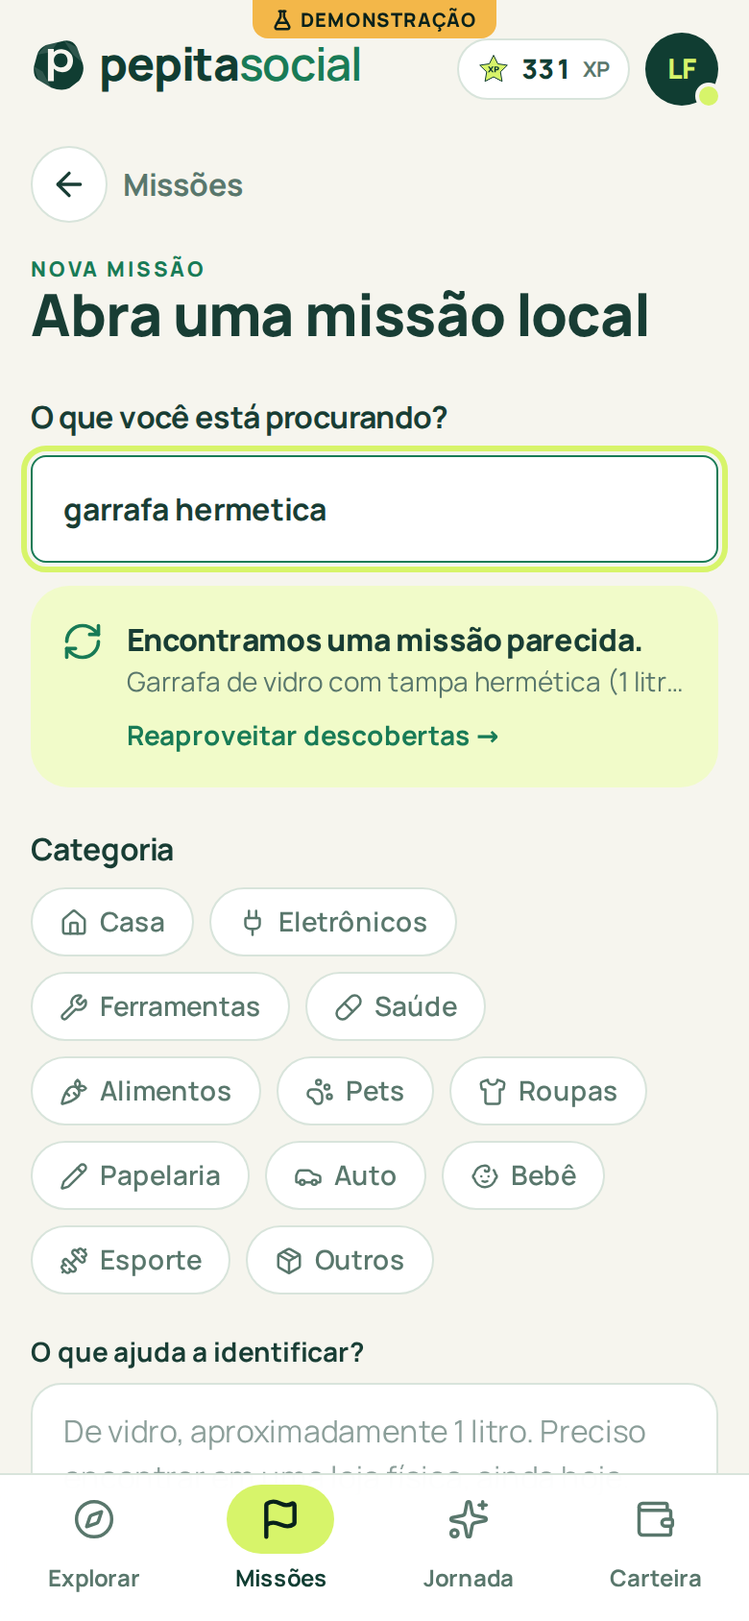
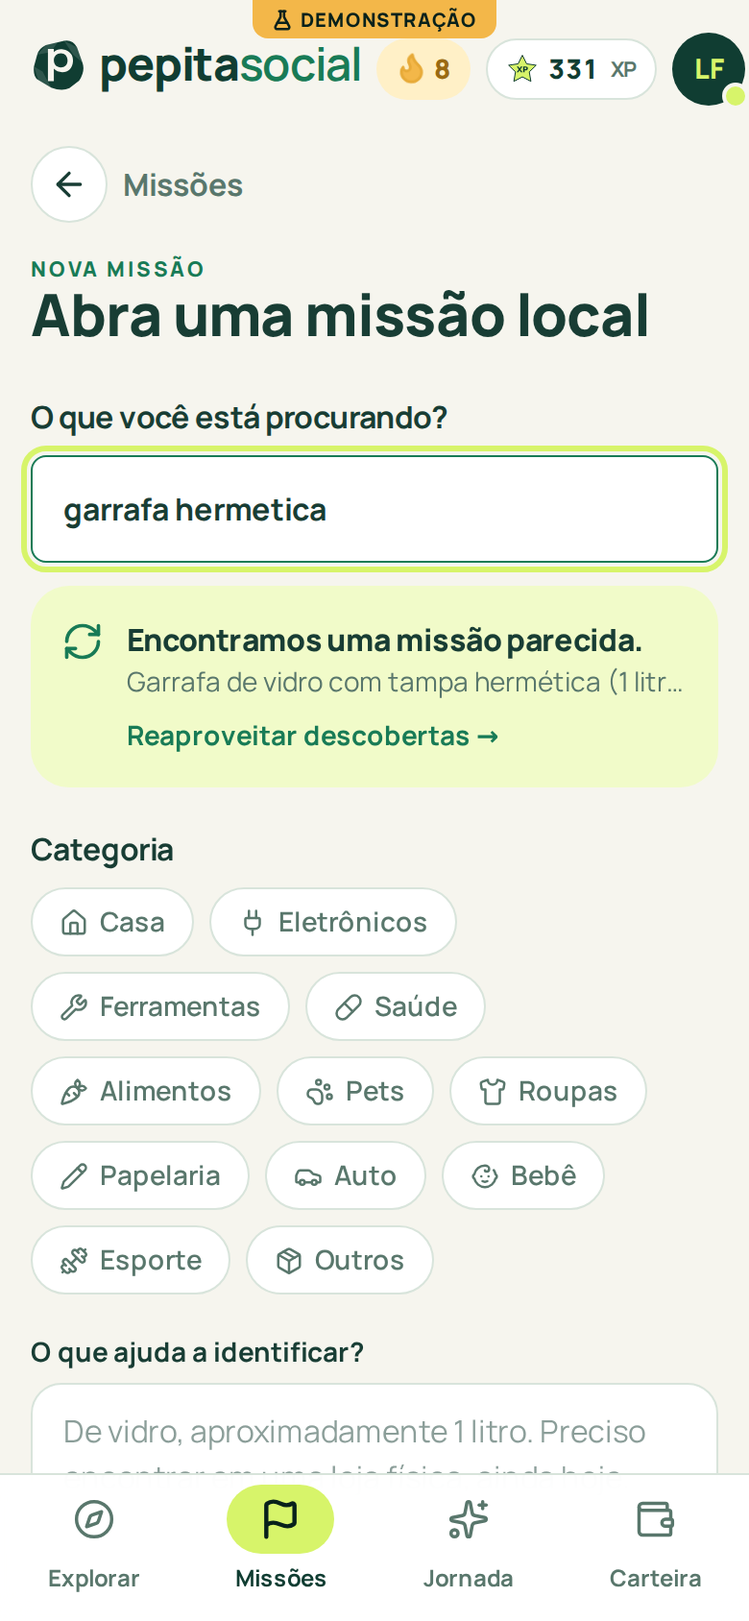
Gamificação no estilo Duolingo: botões táteis, sequência, trilha de patentes, metas do dia e cerimônias
- Botões principais (Floresta, Lima, Ouro) ganham borda inferior de 4 px
  que some quando afundam ao toque, com vibração curta onde o navegador
  permite; os demais seguem planos.
- Cabeçalho mostra a sequência de dias com a chama acesa e o chip de XP
  pula e solta um "+N" quando o XP sobe. Ícone da aba ativa dá um salto.
- Jornada: a árvore de patentes vira uma trilha sinuosa com nós
  alternando os lados, linha tracejada, trecho percorrido desenhado em
  animação, nó atual pulsando com o Pepi ao lado; "Metas de hoje" calcula
  do extrato do dia (evidência, confirmação, 20 XP) com barras que enchem.
- Cerimônia de conquista nova: insígnia cai na tela com o Pepi
  comemorando e confete, uma vez por conquista; conquistas movidas para
  um arquivo comum (lib/badges.ts).
- Tela de conquista da evidência termina com três cartões que viram um a
  um (XP ganho, sequência, evidência), como o fim de lição.
- Smoke fecha as cerimônias que a simulação de 7 dias abre e captura a
  nova conquista.

Claude-Session: https://claude.ai/code/session_012eeJ7ie2pgoS5uJkinvQji

Changed region(s): [[0.4923, 0.0, 1.0, 0.0924]]

diff --git a/web/src/pages/Jornada.tsx b/web/src/pages/Jornada.tsx
@@ -2,25 +2,15 @@ import { useState } from 'react';
 import { Link } from 'react-router';
 import { useQuery } from '@tanstack/react-query';
 import { motion } from 'motion/react';
-import { Camera, Disc, Eye, Flag, Flame, Gem, Hand, Lock, Map, Share2, Sparkles, Trophy, ArrowRight } from 'lucide-react';
+import { BadgeCheck, Camera, Check, Flame, Lock, Share2, Sparkles } from 'lucide-react';
+import { BADGES } from '@/lib/badges';
+import type { LedgerItem } from '@/lib/types';
 import { api } from '@/lib/api';
 import { useMe, useShare, useToast } from '@/lib/hooks';
 import { LEVELS } from '@/lib/economy';
 import type { RankRow } from '@/lib/types';
 import { Avatar, Button, Card, EmptyState, Headline, Segmented, Spinner } from '@/components/ui';
 import { Pepi, RankBadge, XpStar } from '@/components/brand';
-
-const BADGES = [
-  { slug: 'fundador', name: 'Fundador', description: 'Entrou no piloto de Ariquemes.', icon: Flag },
-  { slug: 'primeiro_achado', name: 'Primeira descoberta', description: 'Teve a primeira evidência aceita.', icon: Gem },
-  { slug: 'olho_de_lince', name: 'Olho de lince', description: 'Cinco primeiras descobertas em lugares diferentes.', icon: Eye },
-  { slug: 'bateia', name: 'Bateia', description: 'Confirmou dez descobertas indo até o lugar.', icon: Disc },
-  { slug: 'bom_de_prova', name: 'Boa evidência', description: 'Dez evidências fortes.', icon: Camera },
-  { slug: 'maratonista', name: 'Maratonista', description: 'Sete dias seguidos ajudando.', icon: Flame },
-  { slug: 'mao_aberta', name: 'Mão aberta', description: 'Agradeceu dez vezes com pepitas.', icon: Hand },
-  { slug: 'cartografo', name: 'Cartógrafo', description: 'Cadastrou cinco lugares novos.', icon: Map },
-  { slug: 'garimpeiro_semana', name: 'Destaque da semana', description: 'Topo do ranking semanal.', icon: Trophy },
-];
 
 /** Jornada: patente, árvore de níveis, conquistas e quem mais ajudou a cidade. */
 export function Jornada() {
@@ -29,6 +19,7 @@ export function Jornada() {
   const toast = useToast();
   const [period, setPeriod] = useState<'semana' | 'geral'>('semana');
   const ranking = useQuery({ queryKey: ['ranking', period], queryFn: () => api.ranking(period) });
+  const ledger = useQuery({ queryKey: ['ledger'], queryFn: api.ledger, enabled: !!me });
 
   if (isPending) return <div className="grid place-items-center py-24"><Spinner /></div>;
   if (!me) {
@@ -99,33 +90,11 @@ export function Jornada() {
           <h2 className="font-display font-extrabold text-xl">Sua árvore de conquistas</h2>
           <span className="text-sm text-ink-2">{LEVELS.length} níveis</span>
         </div>
-        <ol className="mt-3 relative">
-          <span className="absolute left-[2.1rem] top-6 bottom-6 w-px bg-line" aria-hidden="true" />
-          {LEVELS.map((l, i) => {
-            const state = l.level === level.level ? 'atual' : l.level < level.level ? 'feito' : 'futuro';
-            return (
-              <motion.li key={l.level} initial={{ opacity: 0, x: -10 }} animate={{ opacity: 1, x: 0 }} transition={{ delay: 0.15 + i * 0.08 }}
-                className={`relative flex items-center gap-3 px-2 py-2.5 rounded-card ${state === 'atual' ? 'bg-lima-100 dark:bg-floresta-600' : ''}`}>
-                <span className={`relative h-[3.3rem] w-[3.3rem] shrink-0 grid place-items-center rounded-2xl ${state === 'atual' ? 'bg-lima-400' : state === 'feito' ? 'bg-esmeralda-100' : 'bg-surface border border-line'}`}>
-                  <RankBadge level={l.level} size={30} dim={state === 'futuro'} />
-                </span>
-                <span className="flex-1 min-w-0">
-                  <span className={`block font-display font-extrabold text-[17px] leading-tight ${state === 'futuro' ? 'text-ink-2' : ''}`}>{l.name}</span>
-                  <span className="block text-sm text-ink-2 leading-snug">{l.motto}</span>
-                </span>
-                <span className={`text-sm font-bold tabular shrink-0 ${state === 'atual' ? 'text-green-ink' : 'text-ink-2'}`}>{l.xp.toLocaleString('pt-BR')} XP{state === 'atual' ? ' · atual' : ''}</span>
-              </motion.li>
-            );
-          })}
-        </ol>
+        <LevelPath current={level.level} />
         <p className="text-sm text-ink-2 mt-2 px-2">{level.perk}</p>
       </section>
 
-      <Link to="/missoes" className="mt-5 flex items-center gap-3 rounded-card bg-surface border border-line px-4 py-3.5">
-        <span className="h-10 w-10 grid place-items-center rounded-full bg-ouro-100 text-gold-ink"><Trophy size={20} /></span>
-        <span className="flex-1 min-w-0"><span className="block font-display font-extrabold">Missão da semana</span><span className="block text-sm text-ink-2">Reconfirme uma pista antiga.</span></span>
-        <span className="inline-flex items-center gap-1 font-bold text-green-ink text-sm">+15 XP <ArrowRight size={16} /></span>
-      </Link>
+      <DailyGoals items={ledger.data?.items ?? []} />
 
       <section className="mt-7">
         <div className="flex items-baseline justify-between">
@@ -193,5 +162,81 @@ function Row({ p, me }: { p: RankRow; me: boolean }) {
       </span>
       <span className="font-display font-extrabold tabular">{p.pontos.toLocaleString('pt-BR')}</span>
     </li>
+  );
+}
+
+/** Trilha de patentes no estilo caminho do Duolingo: nós alternando os lados, ligados por uma linha tracejada; o atual pulsa e tem o Pepi ao lado. */
+function LevelPath({ current }: { current: number }) {
+  const xs = [22, 64, 32, 70, 46];
+  const step = 112; const pad = 64;
+  const nodes = LEVELS.map((l, i) => ({ l, x: xs[i] ?? 50, y: pad + i * step }));
+  const h = pad * 2 + (LEVELS.length - 1) * step;
+  const d = nodes.map((n, i) => (i === 0 ? `M ${n.x} ${n.y}` : `C ${nodes[i - 1]!.x} ${(nodes[i - 1]!.y + n.y) / 2}, ${n.x} ${(nodes[i - 1]!.y + n.y) / 2}, ${n.x} ${n.y}`)).join(' ');
+  const doneUntil = nodes.findIndex((n) => n.l.level === current);
+  const dDone = nodes.slice(0, doneUntil + 1).map((n, i) => (i === 0 ? `M ${n.x} ${n.y}` : `C ${nodes[i - 1]!.x} ${(nodes[i - 1]!.y + n.y) / 2}, ${n.x} ${(nodes[i - 1]!.y + n.y) / 2}, ${n.x} ${n.y}`)).join(' ');
+  return (
+    <div className="relative mt-1" style={{ height: h }}>
+      <svg className="absolute inset-0 w-full h-full" viewBox={`0 0 100 ${h}`} preserveAspectRatio="none" aria-hidden="true">
+        <path d={d} fill="none" stroke="var(--line)" strokeWidth="6" strokeLinecap="round" strokeDasharray="0.1 12" vectorEffect="non-scaling-stroke" />
+        <motion.path d={dDone} fill="none" stroke="var(--accent)" strokeWidth="6" strokeLinecap="round" vectorEffect="non-scaling-stroke" initial={{ pathLength: 0 }} animate={{ pathLength: 1 }} transition={{ duration: 1.1, ease: 'easeOut', delay: 0.2 }} />
+      </svg>
+      {nodes.map((n, i) => {
+        const state = n.l.level === current ? 'atual' : n.l.level < current ? 'feito' : 'futuro';
+        const left = n.x < 50;
+        return (
+          <motion.div key={n.l.level} initial={{ opacity: 0, scale: 0.6 }} animate={{ opacity: 1, scale: 1 }} transition={{ delay: 0.15 + i * 0.1, type: 'spring', stiffness: 320, damping: 20 }}
+            className="absolute -translate-x-1/2 -translate-y-1/2 flex flex-col items-center" style={{ left: `${n.x}%`, top: n.y }}>
+            <div className="relative">
+              {state === 'atual' && <span className="node-ring absolute inset-0 rounded-full bg-lima-400/50" aria-hidden="true" />}
+              <span className={`relative h-[4.25rem] w-[4.25rem] rounded-full grid place-items-center border-4 border-bg ${state === 'atual' ? 'bg-lima-400 shadow-lima' : state === 'feito' ? 'bg-brand text-on-brand' : 'bg-surface-2 text-ink-2'}`}>
+                {state === 'feito' ? <Check size={28} strokeWidth={3} /> : state === 'futuro' ? <Lock size={22} /> : <RankBadge level={n.l.level} size={34} />}
+              </span>
+              {state === 'atual' && <Pepi pose="explorador" size={60} className={`absolute -top-3 ${left ? 'left-[3.9rem]' : 'right-[3.9rem]'}`} />}
+            </div>
+            <span className={`mt-1.5 text-center leading-tight ${state === 'futuro' ? 'text-ink-2' : ''}`}>
+              <span className="block font-display font-extrabold text-sm whitespace-nowrap">{n.l.name}</span>
+              <span className="block text-xs text-ink-2 tabular">{n.l.xp.toLocaleString('pt-BR')} XP</span>
+            </span>
+          </motion.div>
+        );
+      })}
+    </div>
+  );
+}
+
+/** Metas de hoje, calculadas do extrato do dia (renovam à meia-noite). Sem recompensa inventada: o XP vem das próprias ações. */
+function DailyGoals({ items }: { items: LedgerItem[] }) {
+  const today = new Date().toDateString();
+  const todays = items.filter((l) => l.state !== 'estornado' && new Date(l.createdAt).toDateString() === today);
+  const count = (kind: string) => todays.filter((l) => l.kind === kind).length;
+  const xp = todays.reduce((s, l) => s + Math.max(0, l.xp), 0);
+  const goals = [
+    { label: 'Envie uma evidência', done: count('resposta_com_evidencia'), target: 1, icon: Camera },
+    { label: 'Confirme uma descoberta', done: count('confirmar') + count('confirmacao_validada'), target: 1, icon: BadgeCheck },
+    { label: 'Ganhe 20 XP hoje', done: Math.min(xp, 20), target: 20, icon: Sparkles },
+  ];
+  const all = goals.every((g) => g.done >= g.target);
+  return (
+    <section className="mt-7">
+      <div className="flex items-baseline justify-between">
+        <h2 className="font-display font-extrabold text-xl">Metas de hoje</h2>
+        <span className="text-sm text-ink-2">{all ? 'Tudo feito!' : 'renovam à meia-noite'}</span>
+      </div>
+      <ul className="mt-3 rounded-card bg-surface border border-line divide-y divide-line">
+        {goals.map((g, i) => {
+          const ok = g.done >= g.target;
+          return (
+            <li key={g.label} className="flex items-center gap-3 px-4 py-3">
+              <motion.span initial={false} animate={ok ? { scale: [1, 1.2, 1] } : { scale: 1 }} className={`h-10 w-10 shrink-0 grid place-items-center rounded-full ${ok ? 'bg-lima-400 text-floresta-900' : 'bg-surface-2 text-accent'}`}>{ok ? <Check size={20} strokeWidth={3} /> : <g.icon size={18} />}</motion.span>
+              <span className="flex-1 min-w-0">
+                <span className={`block font-bold text-[15px] ${ok ? 'text-ink-2 line-through decoration-2' : ''}`}>{g.label}</span>
+                <span className="mt-1.5 block h-2 rounded-full bg-surface-2 overflow-hidden"><motion.span className={`block h-full rounded-full ${ok ? 'bg-lima-400' : 'bg-accent'}`} initial={{ width: 0 }} animate={{ width: `${Math.min(100, (g.done / g.target) * 100)}%` }} transition={{ duration: 0.8, delay: 0.2 + i * 0.1, ease: 'easeOut' }} /></span>
+              </span>
+              <span className="text-sm font-bold tabular text-ink-2 shrink-0">{Math.min(g.done, g.target)}/{g.target}</span>
+            </li>
+          );
+        })}
+      </ul>
+    </section>
   );
 }

diff --git a/web/src/components/ui.tsx b/web/src/components/ui.tsx
@@ -1,7 +1,8 @@
 import { useEffect, useRef, useState, type ButtonHTMLAttributes, type InputHTMLAttributes, type ReactNode, type TextareaHTMLAttributes } from 'react';
 import { AnimatePresence, animate, motion, useReducedMotion } from 'motion/react';
-import { ArrowRight, X } from 'lucide-react';
+import { ArrowRight, Flame, X } from 'lucide-react';
 import { NuggetIcon, StateArt, Symbol, XpStar } from './brand';
+import { haptic } from '@/lib/reward';
 
 /** Compatibilidade: a pepita do pacote substitui o ícone desenhado à mão. */
 export function PepitaIcon({ size = 18, className = '' }: { size?: number; className?: string }) { return <NuggetIcon size={size} className={className} />; }
@@ -9,20 +10,22 @@ export function Logo({ size = 28 }: { size?: number }) { return <Symbol size={si
 
 type Variant = 'primary' | 'secondary' | 'gold' | 'lime' | 'ghost' | 'soft' | 'danger';
 const variants: Record<Variant, string> = {
-  primary: 'bg-brand text-on-brand hover:brightness-95 shadow-float',
+  primary: 'btn-3d bg-brand text-on-brand [--edge:#061A15] dark:[--edge:#A9C73A]',
   secondary: 'bg-surface text-brand-ink border border-line hover:bg-surface-2',
-  gold: 'bg-ouro-400 text-floresta-900 hover:bg-ouro-500 shadow-ouro',
-  lime: 'bg-lima-400 text-floresta-900 hover:bg-lima-300 shadow-lima',
+  gold: 'btn-3d bg-ouro-400 text-floresta-900 [--edge:#C98E1F]',
+  lime: 'btn-3d bg-lima-400 text-floresta-900 [--edge:#A9C73A]',
   ghost: 'bg-transparent text-ink hover:bg-surface-2 border border-line',
   soft: 'bg-accent-soft text-ink hover:bg-floresta-100',
   danger: 'bg-brasa-100 text-brasa-700 hover:bg-brasa-500 hover:text-white',
 };
-export function Button({ variant = 'primary', size = 'md', loading, arrow, className = '', children, disabled, ...rest }:
+export function Button({ variant = 'primary', size = 'md', loading, arrow, className = '', children, disabled, onClick, ...rest }:
   ButtonHTMLAttributes<HTMLButtonElement> & { variant?: Variant; size?: 'sm' | 'md' | 'lg'; loading?: boolean; arrow?: boolean }) {
+  const tactile = variant === 'primary' || variant === 'lime' || variant === 'gold';
   const sz = size === 'sm' ? 'h-9 px-3.5 text-sm' : size === 'lg' ? 'h-14 px-6 text-base' : 'h-12 px-5 text-[15px]';
   return (
-    <motion.button whileTap={{ scale: 0.97 }} transition={{ type: 'spring', stiffness: 500, damping: 30 }}
-      className={`press inline-flex items-center justify-center gap-2 rounded-full font-display font-bold tracking-tight disabled:opacity-40 disabled:saturate-50 disabled:pointer-events-none ${sz} ${variants[variant]} ${className}`}
+    <motion.button whileTap={tactile ? undefined : { scale: 0.97 }} transition={{ type: 'spring', stiffness: 500, damping: 30 }}
+      onClick={(e) => { if (tactile) haptic(); onClick?.(e); }}
+      className={`${tactile ? '' : 'press'} inline-flex items-center justify-center gap-2 rounded-full font-display font-bold tracking-tight disabled:opacity-40 disabled:saturate-50 disabled:pointer-events-none ${sz} ${variants[variant]} ${className}`}
       disabled={loading || disabled} {...(rest as object)}>
       {loading ? <Spinner size={18} /> : <>{children}{arrow && <ArrowRight size={18} strokeWidth={2.5} className="ml-auto" />}</>}
     </motion.button>
@@ -161,10 +164,32 @@ export function PepitaPill({ value, pending, size = 'md' }: { value: number; pen
   );
 }
 
+/** Chip de XP: quando o valor sobe, o chip dá um pulo e um "+N" flutua para cima (o ganho acontece onde o número mora). */
 export function XpChip({ xp, size = 'md' }: { xp: number; size?: 'sm' | 'md' }) {
+  const prev = useRef(xp);
+  const [gain, setGain] = useState<{ n: number; id: number } | null>(null);
+  useEffect(() => {
+    const d = xp - prev.current; prev.current = xp;
+    if (d > 0) { setGain({ n: d, id: Date.now() }); const t = setTimeout(() => setGain(null), 1400); return () => clearTimeout(t); }
+  }, [xp]);
   return (
-    <span className={`inline-flex items-center gap-1.5 rounded-full bg-surface border border-line font-display font-extrabold text-brand-ink ${size === 'sm' ? 'h-8 px-2.5 text-sm' : 'h-10 px-3.5 text-base'}`}>
+    <motion.span key={gain?.id ?? 'idle'} animate={gain ? { scale: [1, 1.14, 1] } : { scale: 1 }} transition={{ duration: 0.45, ease: 'easeOut' }}
+      className={`relative inline-flex items-center gap-1.5 rounded-full bg-surface border border-line font-display font-extrabold text-brand-ink ${size === 'sm' ? 'h-8 px-2.5 text-sm' : 'h-10 px-3.5 text-base'}`}>
       <XpStar size={size === 'sm' ? 16 : 20} /><AnimatedNumber value={xp} /><span className="text-[11px] font-bold text-ink-2">XP</span>
+      <AnimatePresence>
+        {gain && <motion.span initial={{ opacity: 0, y: 6 }} animate={{ opacity: 1, y: -22 }} exit={{ opacity: 0 }} transition={{ duration: 0.9, ease: 'easeOut' }}
+          className="absolute left-1/2 -translate-x-1/2 top-0 text-sm font-extrabold text-green-ink pointer-events-none">+{gain.n}</motion.span>}
+      </AnimatePresence>
+    </motion.span>
+  );
+}
+
+/** Sequência de dias com a chama do Duolingo: acesa quando há sequência, apagada quando não. */
+export function StreakChip({ days, size = 'md' }: { days: number; size?: 'sm' | 'md' }) {
+  const on = days > 0;
+  return (
+    <span className={`inline-flex items-center gap-1 rounded-full font-display font-extrabold tabular ${on ? 'bg-ouro-100 text-gold-ink' : 'bg-surface border border-line text-ink-2'} ${size === 'sm' ? 'h-8 px-2.5 text-sm' : 'h-10 px-3.5 text-base'}`} title={on ? `${days} dias seguidos ajudando` : 'Ajude hoje para começar uma sequência'}>
+      <Flame size={size === 'sm' ? 16 : 18} className={on ? 'flame fill-ouro-400 text-ouro-500' : ''} />{days}
     </span>
   );
 }

diff --git a/web/src/components/Shell.tsx b/web/src/components/Shell.tsx
@@ -4,7 +4,9 @@ import { useQueryClient } from '@tanstack/react-query';
 import { AnimatePresence, motion } from 'motion/react';
 import { Compass, Flag, FlaskConical, Sparkles, Wallet } from 'lucide-react';
 import { useMe, useToast } from '@/lib/hooks';
-import { Sheet, Button, Avatar, XpChip } from './ui';
+import { Sheet, Button, Avatar, XpChip, StreakChip } from './ui';
+import { badgeBySlug } from '@/lib/badges';
+import type { Badge } from '@/lib/types';
 import { Anim, Pepi, RankBadge, Wordmark } from './brand';
 import { celebrate } from '@/lib/reward';
 
@@ -35,6 +37,7 @@ export function Shell() {
       <Toasts />
       {import.meta.env.VITE_DEMO === '1' && <DemoBadge />}
       {me && <LevelUpWatcher xp={me.user.xp} level={me.level.level} name={me.level.name} perk={me.level.perk} userId={me.user.id} />}
+      {me && <BadgeWatcher badges={me.badges} userId={me.user.id} />}
     </div>
   );
 }
@@ -48,6 +51,7 @@ function TopBar() {
         <Link to="/" aria-label="Pepita Social, início" className="mr-auto"><Wordmark size={24} /></Link>
         {me ? (
           <>
+            <Link to="/jornada" aria-label="Sua sequência"><StreakChip days={me.user.streakDays} size="sm" /></Link>
             <Link to="/jornada" aria-label="Sua jornada"><XpChip xp={me.user.xp} size="sm" /></Link>
             <Link to="/carteira" aria-label="Sua carteira" className="relative">
               <Avatar name={me.user.name} url={me.user.avatarUrl} size={38} />
@@ -69,7 +73,9 @@ function Tab({ to, label, icon: Icon, end }: { to: string; label: string; icon: 
         <span className="flex flex-col items-center gap-1 text-[12px] font-bold">
           <span className="relative h-9 w-14 grid place-items-center">
             {isActive && <motion.span layoutId="tab-bg" className="absolute inset-0 rounded-full bg-lima-400" transition={{ type: 'spring', stiffness: 420, damping: 32 }} />}
-            <Icon size={22} className={`relative ${isActive ? 'text-floresta-900' : ''}`} strokeWidth={isActive ? 2.4 : 1.9} />
+            <motion.span key={String(isActive)} animate={isActive ? { scale: [1, 1.28, 1], rotate: [0, -8, 0] } : { scale: 1 }} transition={{ duration: 0.38, ease: 'easeOut' }} className="relative grid place-items-center">
+              <Icon size={22} className={isActive ? 'text-floresta-900' : ''} strokeWidth={isActive ? 2.4 : 1.9} />
+            </motion.span>
           </span>
           {label}
         </span>
@@ -129,6 +135,42 @@ function LevelUpWatcher({ xp, level, name, perk, userId }: { xp: number; level: 
         <p className="text-sm text-ink-2 mt-1">{xp.toLocaleString('pt-BR')} XP acumulados</p>
         <Button variant="primary" size="lg" className="mt-6 w-full" onClick={() => setShow(false)}>Continuar ajudando</Button>
       </div>
+    </Sheet>
+  );
+}
+
+/** Cerimônia de conquista nova: a insígnia cai na tela com o Pepi comemorando. Uma vez por conquista, por usuário. */
+function BadgeWatcher({ badges, userId }: { badges: Badge[]; userId: string }) {
+  const key = `garimpa.badges.${userId}`;
+  const [show, setShow] = useState<Badge | null>(null);
+  useEffect(() => {
+    const slugs = badges.map((b) => b.slug);
+    let prev: string[] | null = null;
+    try { prev = JSON.parse(localStorage.getItem(key) ?? 'null'); } catch { prev = null; }
+    if (prev) {
+      const fresh = slugs.find((s) => !prev!.includes(s));
+      if (fresh) { const t = setTimeout(() => { setShow(badges.find((b) => b.slug === fresh) ?? null); celebrate(); }, 500); localStorage.setItem(key, JSON.stringify(slugs)); return () => clearTimeout(t); }
+    }
+    localStorage.setItem(key, JSON.stringify(slugs));
+  }, [badges, key]);
+  const meta = show ? badgeBySlug(show.slug) : null;
+  const Icon = meta?.icon;
+  return (
+    <Sheet open={!!show} onClose={() => setShow(null)}>
+      {show && (
+        <div className="text-center pt-2 pb-3">
+          <div className="relative mx-auto w-fit">
+            <Pepi pose="comemorando" size={150} celebrate />
+            <motion.span initial={{ scale: 0, rotate: -30, y: -40 }} animate={{ scale: 1, rotate: -8, y: 0 }} transition={{ delay: 0.35, type: 'spring', stiffness: 380, damping: 14 }}
+              className="absolute -right-6 bottom-2 h-20 w-20 rounded-full bg-ouro-400 text-floresta-900 grid place-items-center shadow-ouro border-4 border-bg">{Icon && <Icon size={36} />}</motion.span>
+          </div>
+          <p className="eyebrow mt-5">Nova conquista</p>
+          <h2 className="display text-3xl mt-1">{show.name}</h2>
+          <p className="mt-3 text-balance text-ink-2">{meta?.description ?? show.description}</p>
+          {meta?.xpBonus ? <p className="mt-2 font-display font-extrabold text-green-ink">+{meta.xpBonus} XP de bônus</p> : null}
+          <Button variant="lime" size="lg" className="mt-6 w-full" onClick={() => setShow(null)}>Continuar</Button>
+        </div>
+      )}
     </Sheet>
   );
 }

diff --git a/web/src/pages/Answer.tsx b/web/src/pages/Answer.tsx
@@ -2,7 +2,7 @@ import { useEffect, useState } from 'react';
 import { Link, useLocation, useNavigate, useParams } from 'react-router';
 import { useQuery } from '@tanstack/react-query';
 import { AnimatePresence, motion } from 'motion/react';
-import { AlertTriangle, ArrowLeft, BadgeCheck, Camera, Check, Clock, Eye, MapPin, Plus, Search, ShieldCheck, Sparkles } from 'lucide-react';
+import { AlertTriangle, ArrowLeft, BadgeCheck, Camera, Check, Clock, Eye, Flame, MapPin, Plus, Search, ShieldCheck, Sparkles } from 'lucide-react';
 import { api } from '@/lib/api';
 import { useConfig, useDebounced, useGeo, useInvalidate, useMe, useToast } from '@/lib/hooks';
 import type { PlaceLite, UploadResult } from '@/lib/types';
@@ -96,8 +96,21 @@ export function AnswerPage() {
         </div>
         <h1 className="display text-[2rem] mt-14">{result.isFirst ? 'Boa! Você abriu caminho.' : 'Boa! Sua pista reforça a descoberta.'}</h1>
         <p className="text-ink-2 mt-3 text-balance">{result.isFirst ? 'Você foi a primeira pessoa a apontar esse lugar. ' : 'Esse lugar já tinha sido apontado; a sua entra como confirmação. '}{result.strong ? `Quando aceitarem ou confirmarem, as pepitas caem na sua carteira (${cfg?.economy.carencia_dias ?? 7} dias de carência).` : 'A evidência ficou fraca: peça para alguém confirmar no local para render pepitas.'}</p>
-        <p className={`mt-5 inline-flex items-center justify-center gap-1.5 text-sm font-bold ${result.strong ? 'text-green-ink' : 'text-gold-ink'}`}>{result.strong ? <BadgeCheck size={18} /> : <AlertTriangle size={18} />}{result.strong ? 'Evidência forte' : 'Evidência fraca: peça uma confirmação no local'}</p>
-        <Link to={`/m/${id}`} className="block mt-8"><Button variant="primary" size="lg" className="w-full"><Sparkles size={18} />Voltar à missão</Button></Link>
+        <div className="mt-6 grid grid-cols-3 gap-2" style={{ perspective: 800 }}>
+          {[
+            { k: 'xp', label: 'XP ganho', value: `+${result.xp}`, tone: 'bg-lima-400 text-floresta-900', icon: <Sparkles size={16} /> },
+            { k: 'streak', label: 'Sequência', value: `${me?.user.streakDays ?? 1} ${(me?.user.streakDays ?? 1) === 1 ? 'dia' : 'dias'}`, tone: 'bg-ouro-400 text-floresta-900', icon: <Flame size={16} className="fill-floresta-900/20" /> },
+            { k: 'ev', label: 'Evidência', value: result.strong ? 'Forte' : 'Fraca', tone: result.strong ? 'bg-brand text-on-brand' : 'bg-surface-2 text-ink', icon: result.strong ? <BadgeCheck size={16} /> : <AlertTriangle size={16} /> },
+          ].map((c, i) => (
+            <motion.div key={c.k} initial={{ rotateX: 90, opacity: 0, y: 12 }} animate={{ rotateX: 0, opacity: 1, y: 0 }} transition={{ delay: 0.9 + i * 0.18, type: 'spring', stiffness: 260, damping: 18 }}
+              className={`rounded-card px-2 py-3 ${c.tone}`}>
+              <span className="mx-auto h-7 w-7 grid place-items-center rounded-full bg-black/10">{c.icon}</span>
+              <span className="block font-display font-extrabold text-lg mt-1 tabular leading-tight">{c.value}</span>
+              <span className="block text-[11px] font-bold opacity-80">{c.label}</span>
+            </motion.div>
+          ))}
+        </div>
+        <Link to={`/m/${id}`} className="block mt-6"><Button variant="primary" size="lg" className="w-full"><Sparkles size={18} />Voltar à missão</Button></Link>
         <Link to="/jornada" className="block mt-3 font-display font-extrabold text-accent">Ver minha jornada</Link>
         <p className="text-xs text-ink-2 mt-5">XP evolui seu nível. Pepitas reconhecem sua ajuda. São contas separadas.</p>
       </motion.div>

diff --git a/web/src/styles.css b/web/src/styles.css
@@ -158,6 +158,15 @@ body {
 /* Toque: tudo que é pressionável afunda 2% e perde um pouco de sombra, a mesma gramática em botões, chips e cartões. */
 .press { transition: transform 160ms cubic-bezier(0.2, 0.8, 0.2, 1), box-shadow 160ms, background-color 160ms; }
 .press:active { transform: scale(0.98); }
+/* Botão "de tijolo": borda inferior de 4px que some quando o botão afunda, a resposta tátil da ação principal. */
+.btn-3d { --edge: rgb(0 0 0 / 0.25); box-shadow: 0 4px 0 var(--edge); transition: transform 110ms cubic-bezier(0.2, 0.8, 0.2, 1), box-shadow 110ms, filter 160ms; will-change: transform; }
+.btn-3d:active:not(:disabled) { transform: translateY(4px); box-shadow: 0 0 0 var(--edge); }
+.btn-3d:disabled { box-shadow: 0 2px 0 var(--edge); }
+@keyframes flicker { 0%, 100% { transform: scale(1) rotate(-3deg); } 40% { transform: scale(1.12) rotate(3deg); } 70% { transform: scale(0.96) rotate(-1deg); } }
+.flame { animation: flicker 1.4s ease-in-out infinite; transform-origin: 50% 90%; }
+@keyframes ringpulse { 0% { transform: scale(0.9); opacity: 0.7; } 100% { transform: scale(1.45); opacity: 0; } }
+.node-ring { animation: ringpulse 1.6s ease-out infinite; }
+@media (prefers-reduced-motion: reduce) { .flame, .node-ring { animation: none; } }
 /* Controle segmentado: um só indicador que desliza entre as opções (ver ui.tsx > Segmented). */
 .segmented { display: flex; gap: 2px; padding: 3px; border-radius: 999px; background: var(--surface-2); }
 .segmented > button { position: relative; flex: 1; height: 2.25rem; border-radius: 999px; font-weight: 700; font-size: 0.875rem; color: var(--text-2); }

diff --git a/web/src/lib/badges.ts b/web/src/lib/badges.ts
@@ -1,0 +1,13 @@
+import { Camera, Disc, Eye, Flag, Flame, Gem, Hand, Map, Trophy } from 'lucide-react';
+import { BADGES as DATA } from './economy';
+
+const ICON: Record<string, typeof Flag> = { fundador: Flag, primeiro_achado: Gem, olho_de_lince: Eye, bateia: Disc, bom_de_prova: Camera, maratonista: Flame, mao_aberta: Hand, cartografo: Map, garimpeiro_semana: Trophy };
+const NAME: Record<string, string> = { primeiro_achado: 'Primeira descoberta', bom_de_prova: 'Boa evidência', garimpeiro_semana: 'Destaque da semana' };
+const TEXT: Record<string, string> = {
+  primeiro_achado: 'Teve a primeira evidência aceita.', olho_de_lince: 'Cinco primeiras descobertas em lugares diferentes.', bateia: 'Confirmou dez descobertas indo até o lugar.',
+  bom_de_prova: 'Dez evidências fortes.', maratonista: 'Sete dias seguidos ajudando.', mao_aberta: 'Agradeceu dez vezes com pepitas.', cartografo: 'Cadastrou cinco lugares novos.', garimpeiro_semana: 'Topo do ranking semanal.',
+};
+
+/** Conquistas com ícone Lucide e textos na voz do app (dados vêm de economy.ts, iguais aos do banco). */
+export const BADGES = DATA.map((b) => ({ slug: b.slug, name: NAME[b.slug] ?? b.name, description: TEXT[b.slug] ?? b.description, xpBonus: b.xpBonus, icon: ICON[b.slug] ?? Flag }));
+export const badgeBySlug = (slug: string) => BADGES.find((b) => b.slug === slug);

diff --git a/web/src/lib/reward.ts b/web/src/lib/reward.ts
@@ -15,6 +15,9 @@ export function celebrate(kind: 'achado' | 'nivel' = 'achado') {
   confetti({ particleCount: 90, spread: 70, startVelocity: 38, origin: { y: 0.7 }, colors, shapes: ['circle', 'square'], scalar: 0.9 });
 }
 
+/** Resposta tátil curta nos botões principais (só onde o navegador permite). */
+export function haptic(ms = 8) { try { navigator.vibrate?.(ms); } catch { /* sem vibração */ } }
+
 export function sparkle(x: number, y: number) {
   if (reduced()) return;
   confetti({ particleCount: 18, spread: 50, startVelocity: 18, gravity: 0.8, ticks: 60, origin: { x: x / window.innerWidth, y: y / window.innerHeight }, colors: ['#F2B705', '#FBE7A1'], scalar: 0.7 });
